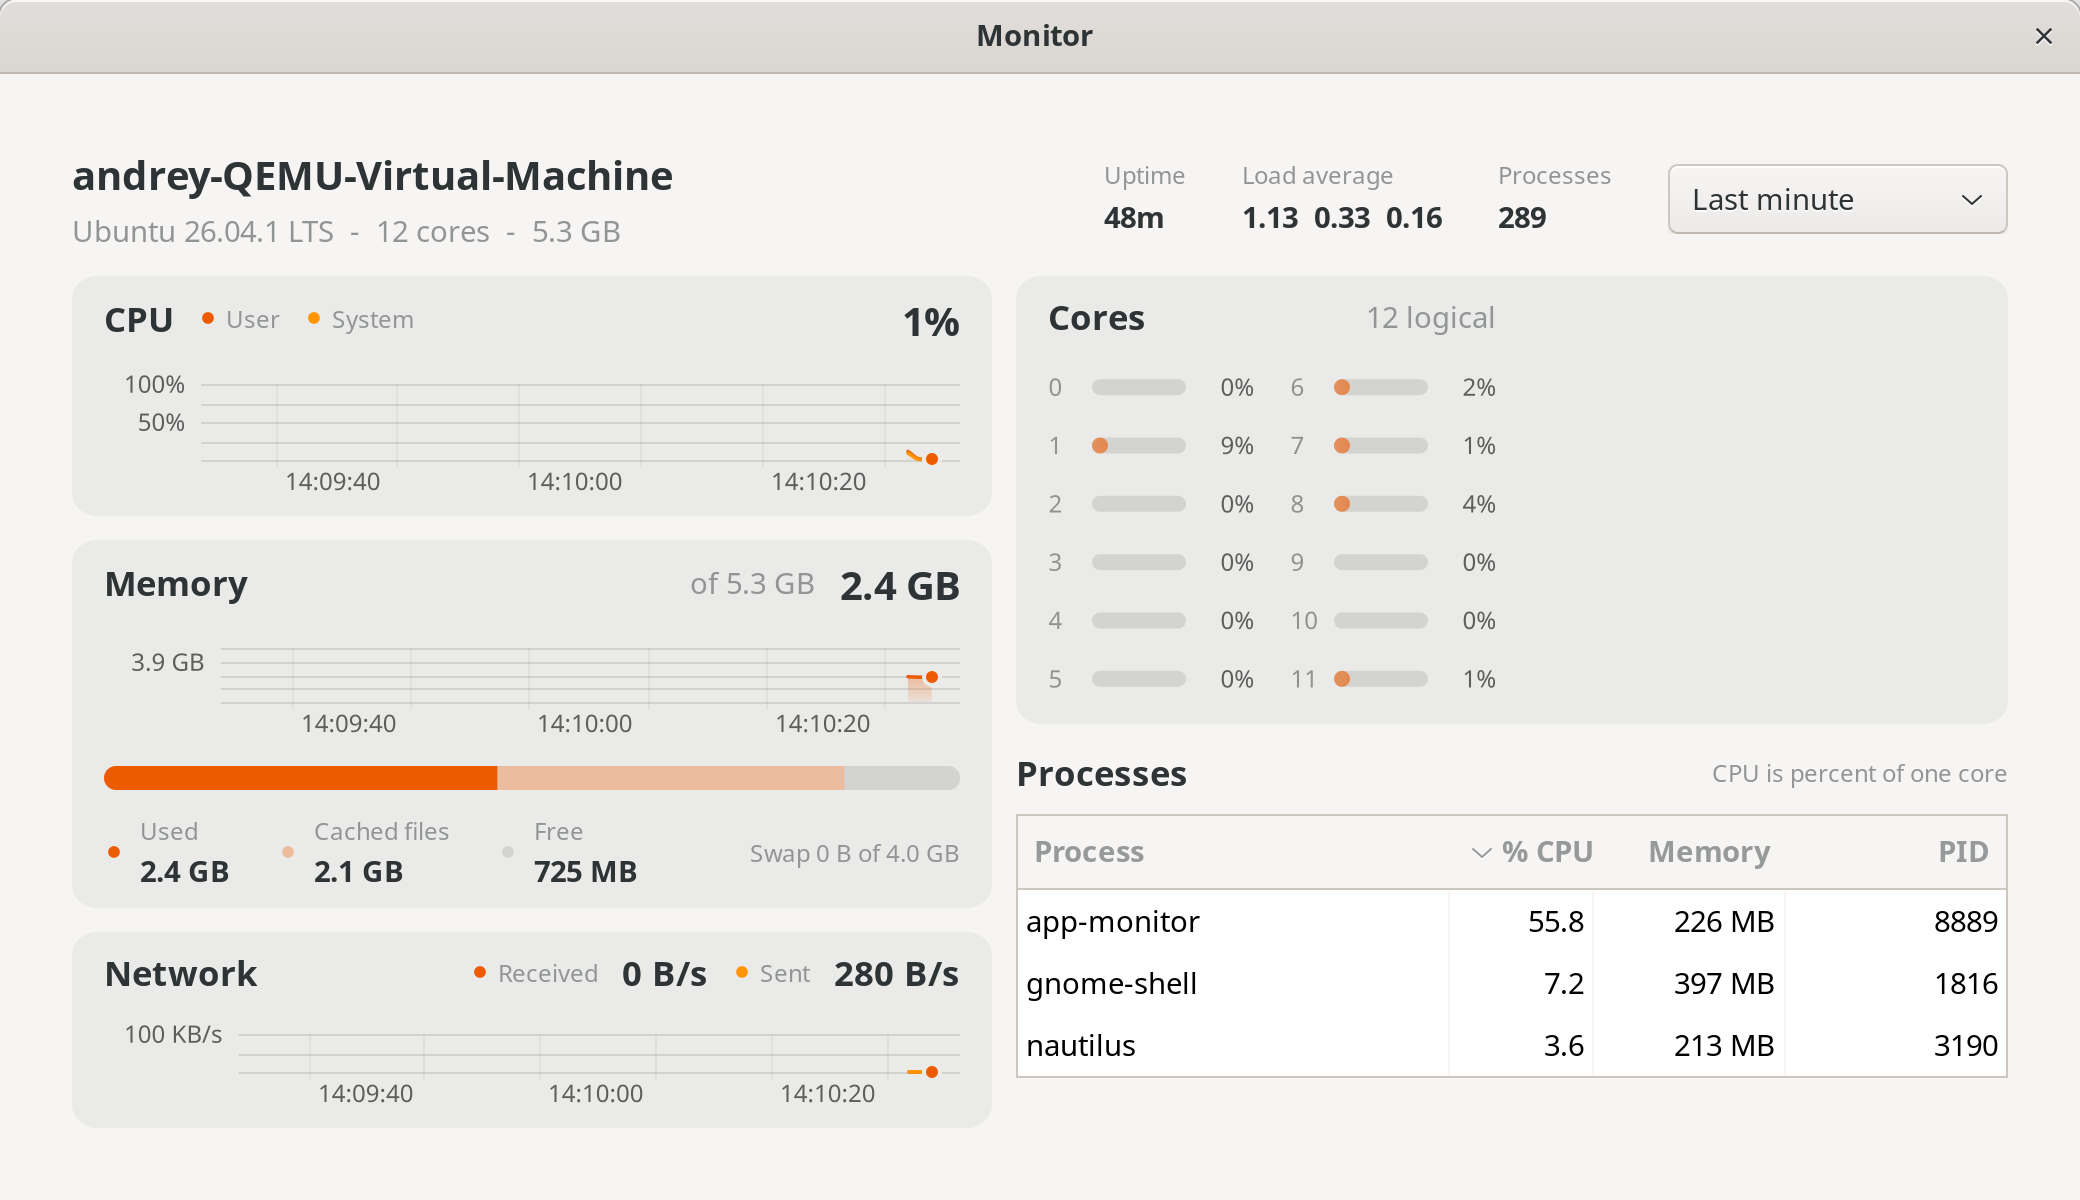
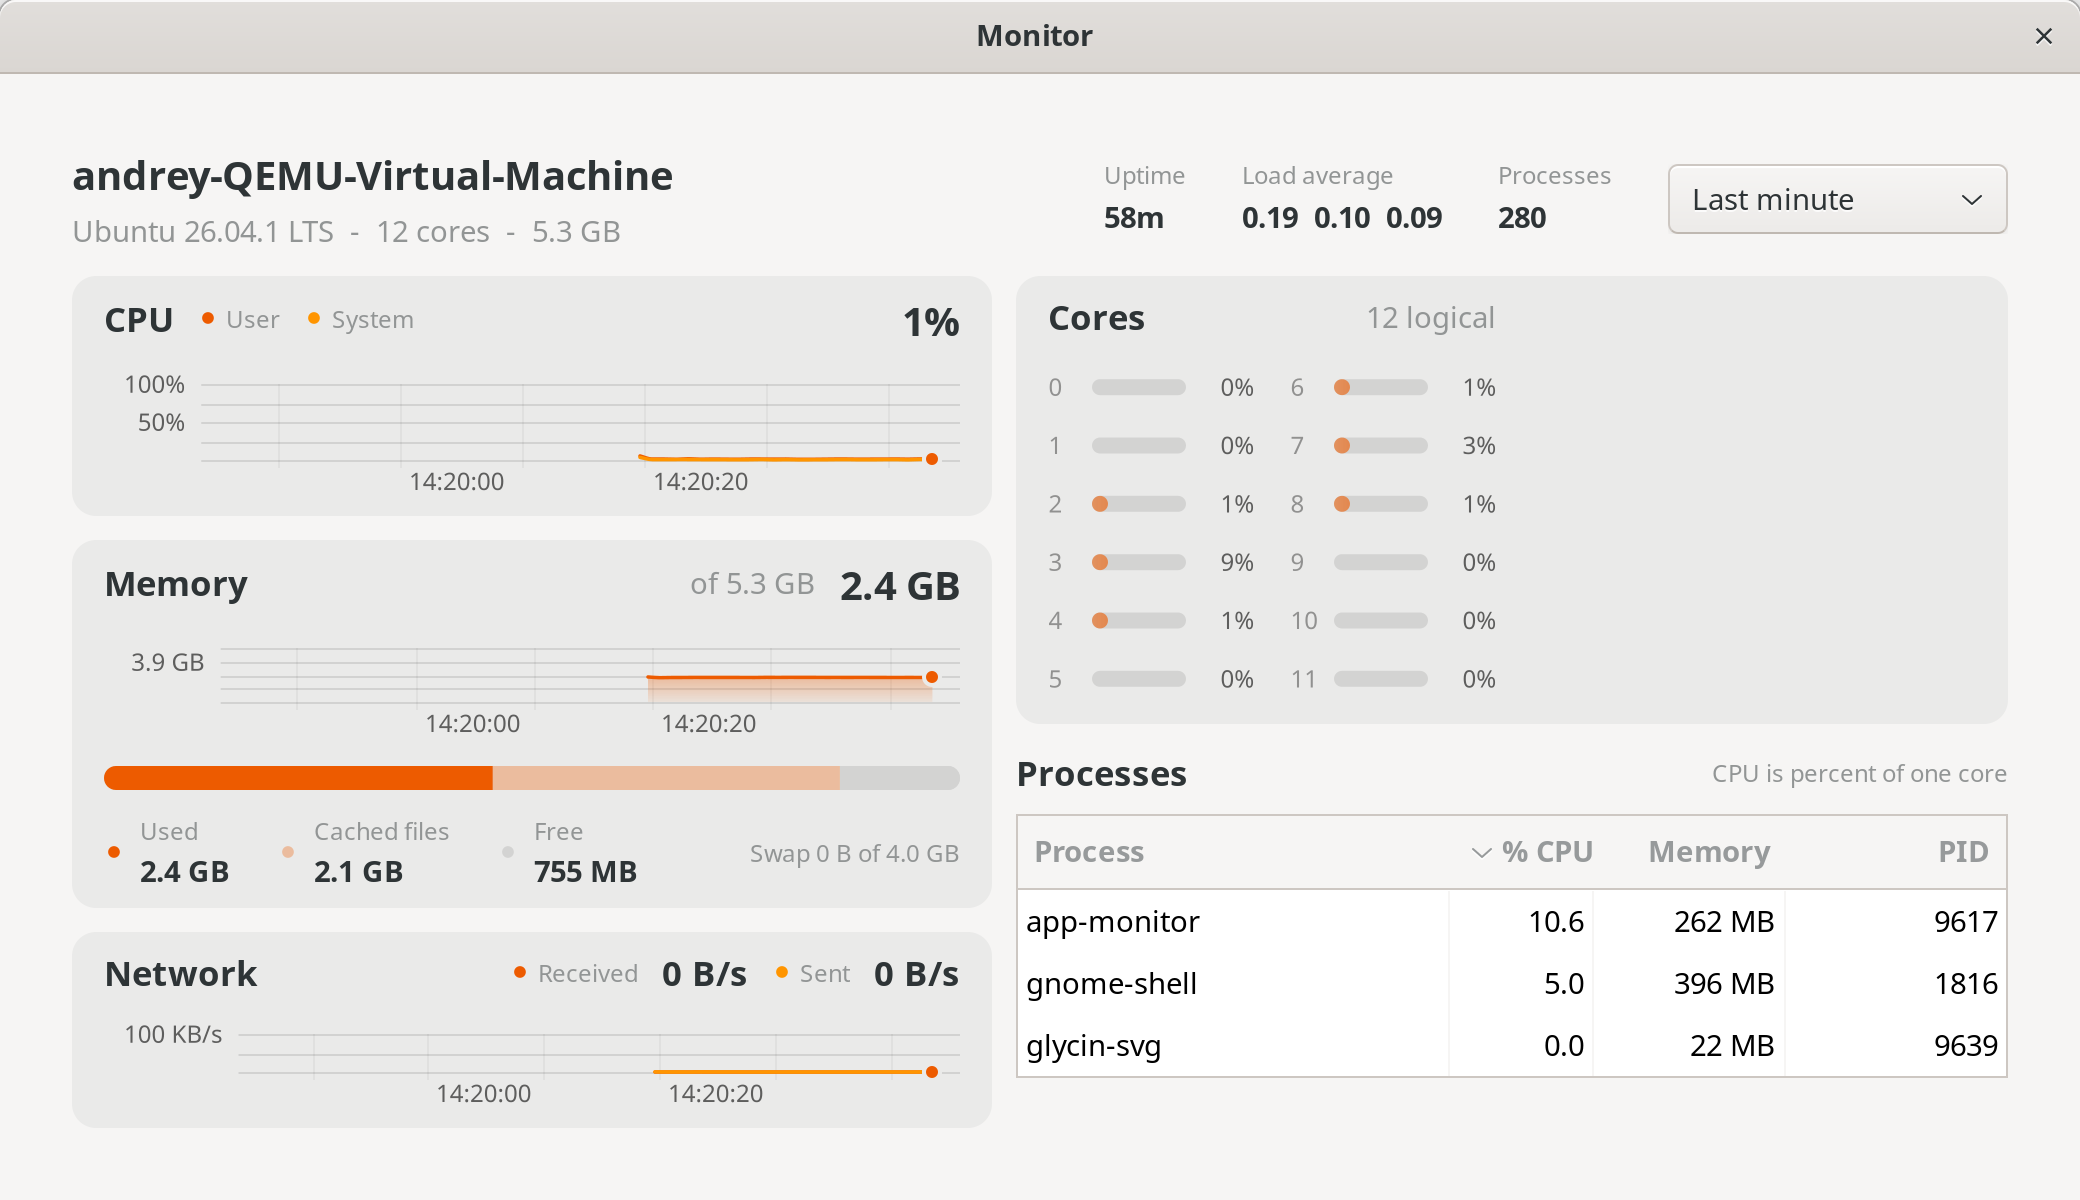
monitor: screenshot waits 25 s for chart history, ignores the pointer, leaves out time labels the plot edge would cut; Linux and Windows shots retaken

diff --git a/examples/apps/monitor/tape.go b/examples/apps/monitor/tape.go
@@ -80,6 +80,8 @@ type tapeParams struct {
 	tickStep float64   // seconds between the vertical ticks
 	base     time.Time // wall time of t = 0, for the tick labels
 	xLo, xHi float64   // seconds the background and grid cover
+	visLo    float64   // tape x of the plot's left and right edge once the step has settled; 0, 0 draws every label
+	visHi    float64
 }
 
 const (
@@ -120,7 +122,10 @@ func recordTape(p *tapeParams, ts []float64, vals [][]float64) tapeResult {
 			if p.tickStep < 60 {
 				layout = "15:04:05"
 			}
-			r.Text(at.Format(layout), x+4, p.h-5, pal.small, pal.label)
+			s := at.Format(layout)
+			if p.visHi == 0 || (x+4 >= p.visLo && x+4+gfx.DefaultMeasurer.MeasureText(s, pal.small).Width <= p.visHi) { // a label the edge would cut is left out
+				r.Text(s, x+4, p.h-5, pal.small, pal.label)
+			}
 		}
 	}
 	for _, f := range p.fracs {

diff --git a/examples/apps/monitor/chart.go b/examples/apps/monitor/chart.go
@@ -205,6 +205,7 @@ func (c *chart) params() *tapeParams {
 		pal: c.pal, colors: cols, stacked: c.spec.stacked, w: c.w, h: c.h, margin: c.margin, pps: pps, yMax: c.yMax,
 		fracs: c.spec.fracs, tickStep: step, base: c.t0,
 		xLo: min(c.trFrom, c.trTo) - (c.w-rightPad)/pps - 2, xHi: c.trTo + rightPad/pps + 2,
+		visLo: c.trTo*pps - (c.w - rightPad) + c.margin, visHi: c.trTo*pps + rightPad,
 	}
 }
 
@@ -369,6 +370,9 @@ func (c *chart) yOf(v float64) float64 {
 }
 
 func (c *chart) setHover(p *gfx.Point) {
+	if p != nil && snapping {
+		return // a screenshot shows no crosshair, whatever the pointer rests on
+	}
 	c.hover = p
 	if p == nil {
 		c.hoverShown = false

diff --git a/examples/apps/monitor/main.go b/examples/apps/monitor/main.go
@@ -7,8 +7,10 @@ import (
 	"cmp"
 	"fmt"
 	"log"
+	"os"
 	"runtime"
 	"sort"
+	"strconv"
 	"strings"
 	"time"
 
@@ -72,7 +74,16 @@ type monitor struct {
 	first    bool
 }
 
+// snapping is true under GOWT_SNAP, a screenshot run. The charts need about 25 s of samples to show curves,
+// so the capture waits for them unless the caller set a longer delay.
+var snapping = os.Getenv("GOWT_SNAP") != ""
+
 func main() {
+	if snapping {
+		if ms, _ := strconv.Atoi(os.Getenv("GOWT_SNAP_DELAY")); ms < 25000 {
+			os.Setenv("GOWT_SNAP_DELAY", "25000")
+		}
+	}
 	err := gowt.Run(func(app *gowt.App) {
 		app.SetDensity(gowt.DensityNative)
 		kit.Appearance(app)
